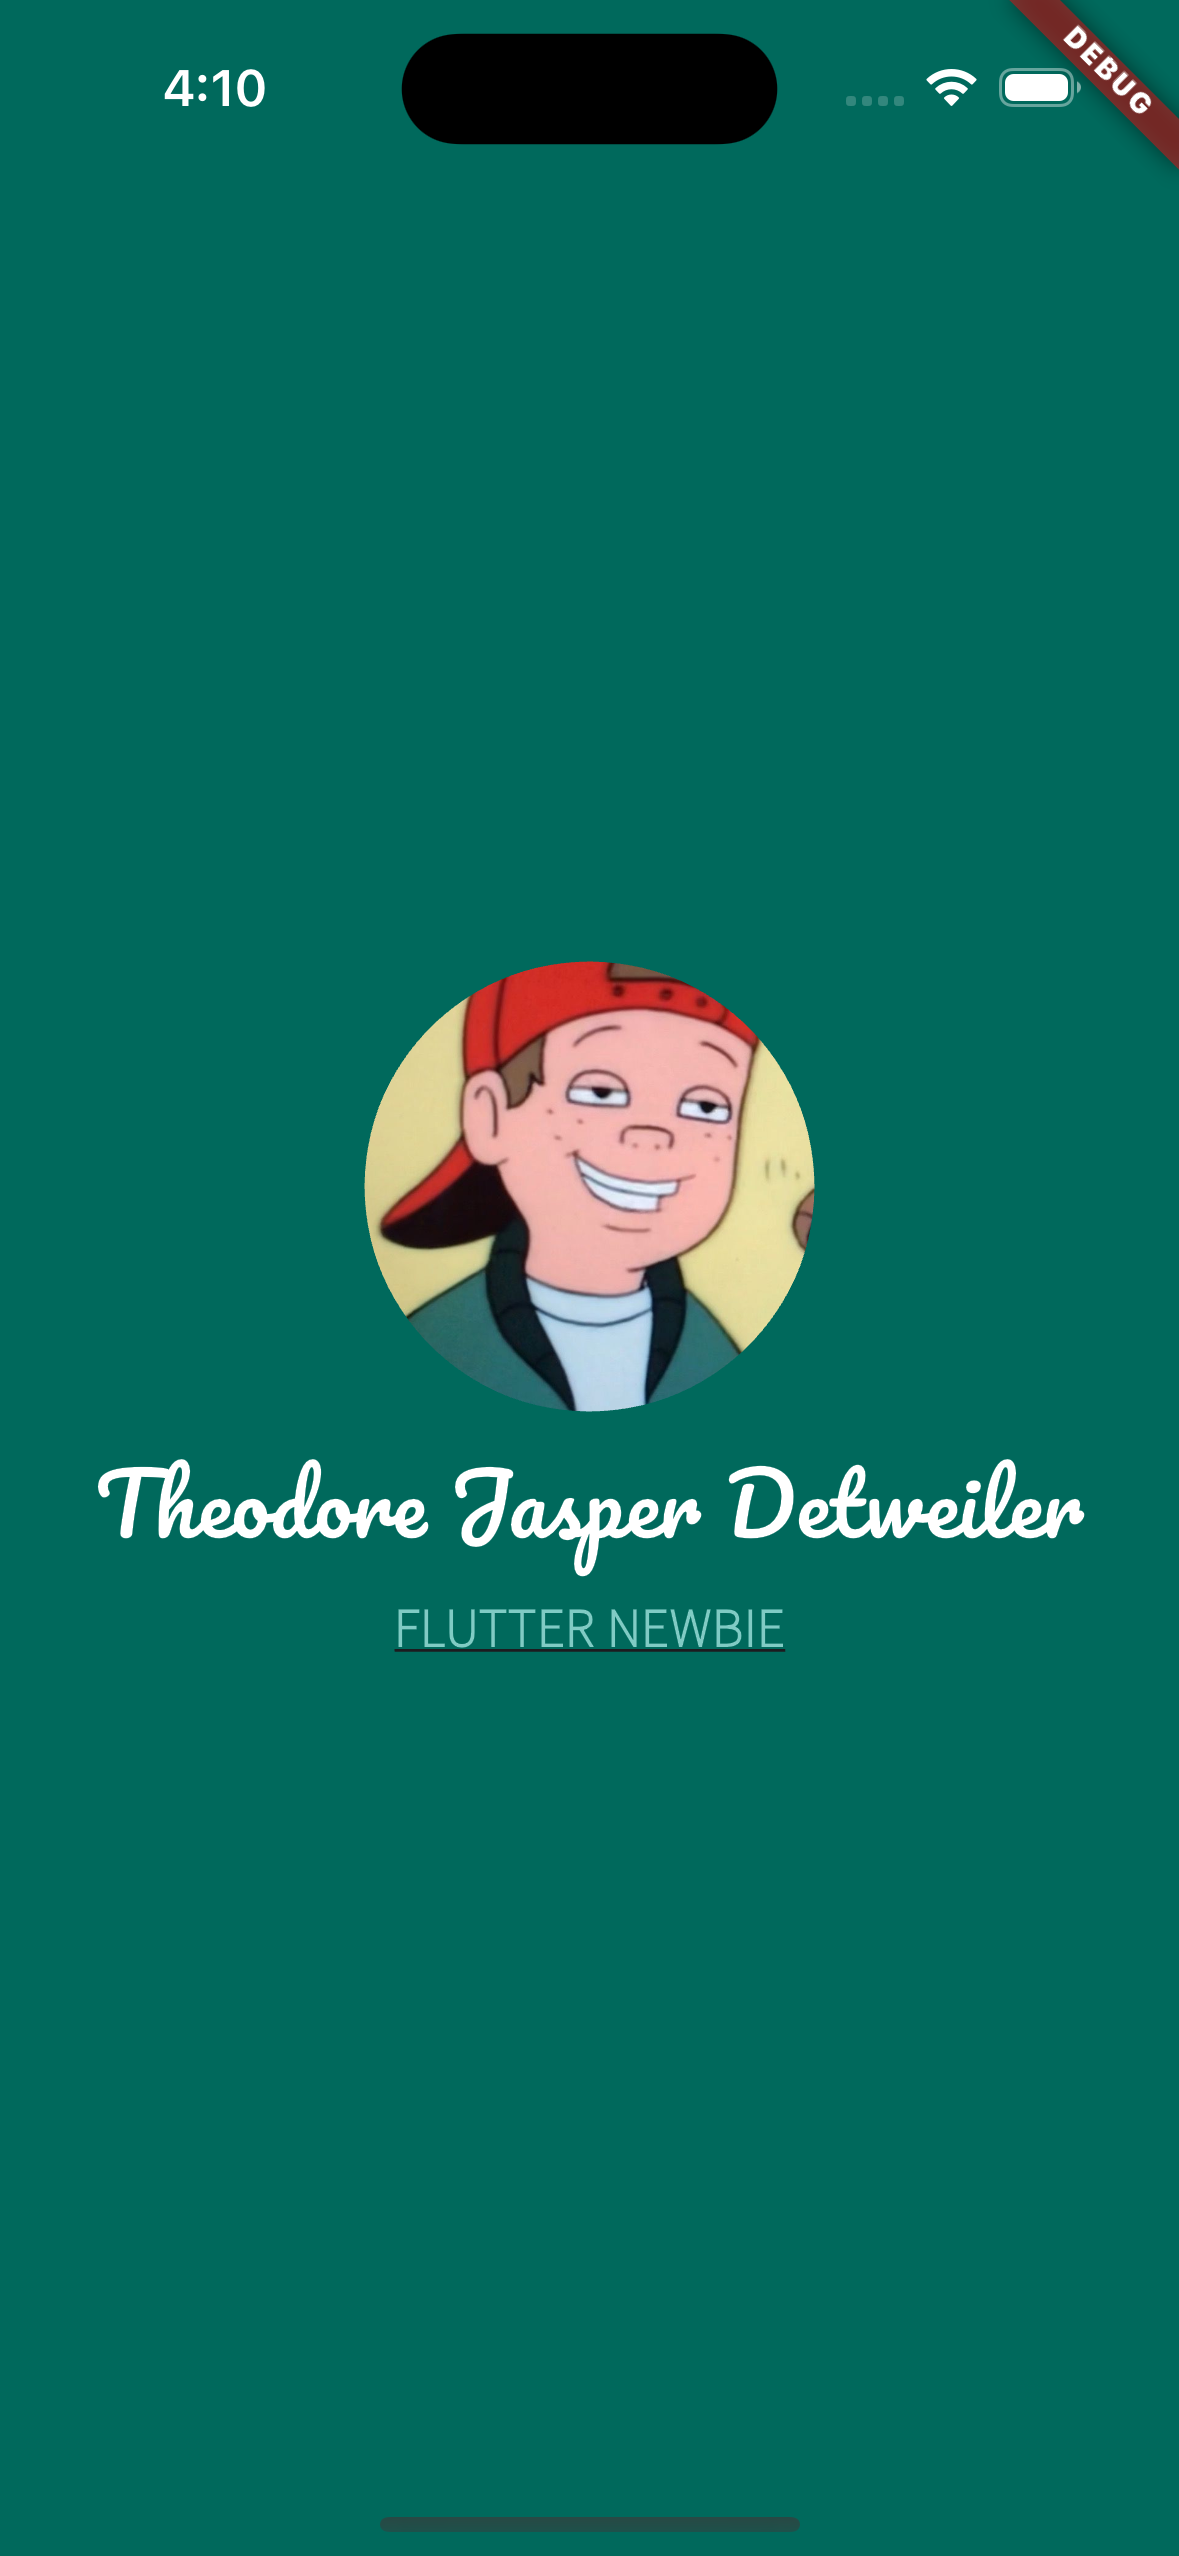
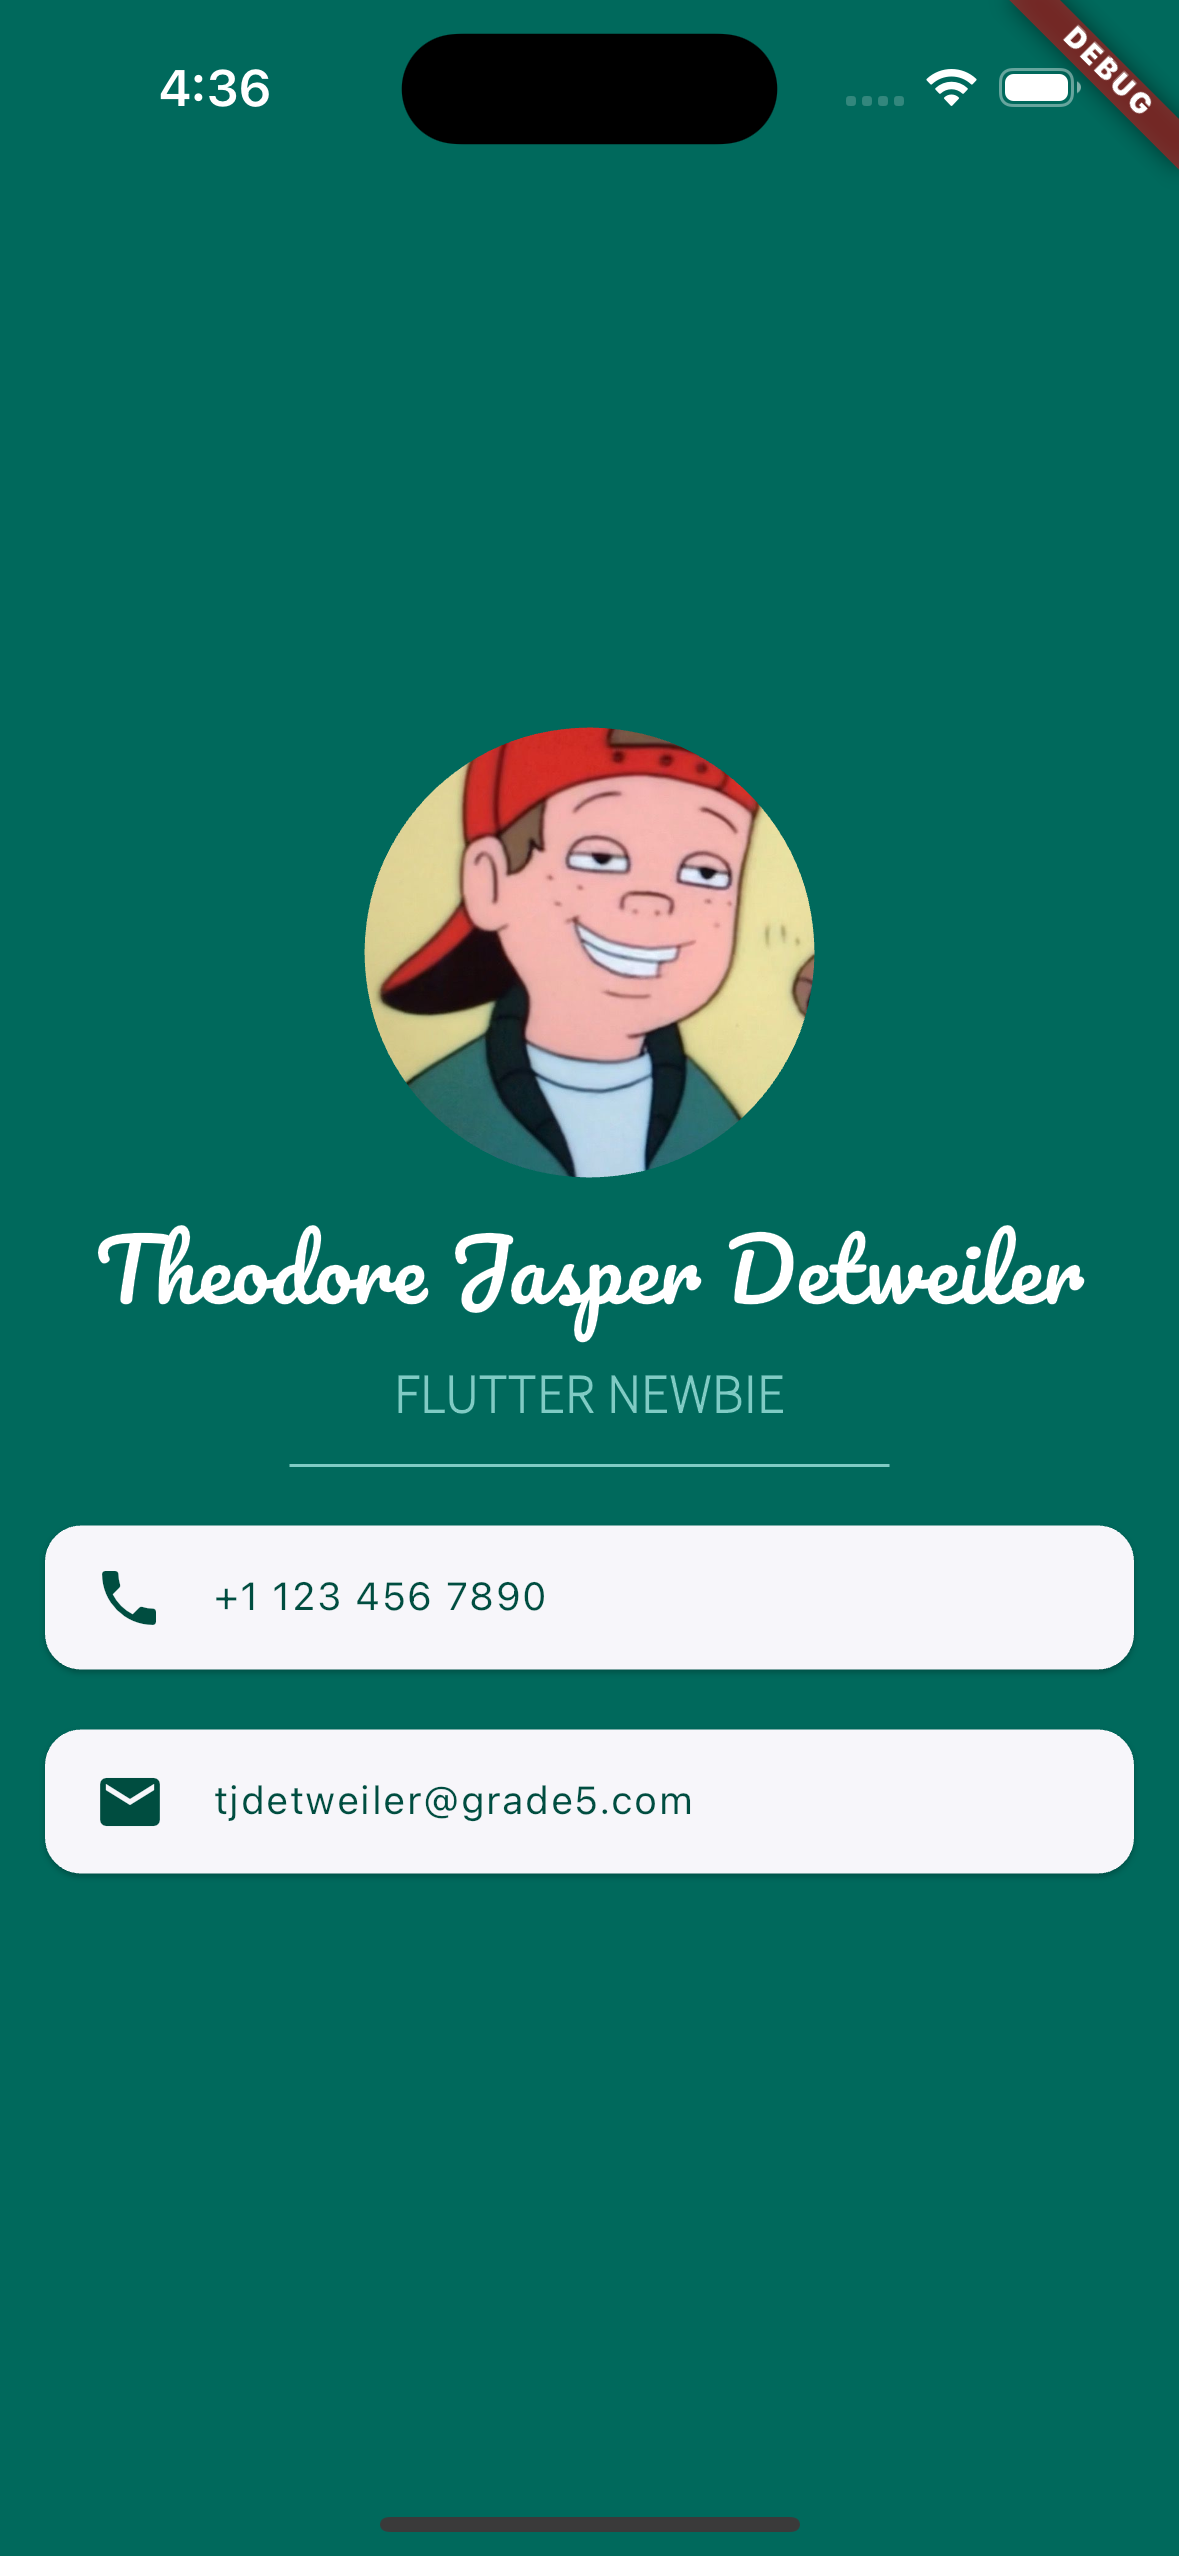
using card & list tile

Changed region(s): [[0.0305, 0.2782, 0.9771, 0.7418], [0.3359, 0.989, 0.6718, 1.0], [0.1527, 0.0309, 0.2137, 0.0618]]

diff --git a/lib/main.dart b/lib/main.dart
@@ -42,10 +42,58 @@ class MyApp extends StatelessWidget {
                     fontFamily: 'sourcesans',
                     fontSize: 18,
                     color: Colors.teal.shade200,
-                    fontWeight: FontWeight.bold,
-                    decoration: TextDecoration.underline
+                    fontWeight: FontWeight.bold
                   ),
-                )
+                ),
+                SizedBox(
+                  height: 20,
+                  width: 200,
+                  child: Divider(
+                    color: Colors.teal.shade200,
+                  ),
+                ),
+                Card(
+                  margin: EdgeInsets.symmetric(
+                      vertical: 10,
+                      horizontal: 15
+                  ),
+                  color: Colors.white,
+                  child: ListTile(
+                    dense: true,
+                    leading:
+                      Icon(
+                        Icons.phone,
+                        color: Colors.teal.shade900,
+                      ),
+                    title: Text(
+                        '+1 123 456 7890',
+                      style: TextStyle(
+                        color: Colors.teal.shade900,
+                      ),
+                    ),
+                  ),
+                ),
+                Card(
+                  margin: EdgeInsets.symmetric(
+                      vertical: 10,
+                      horizontal: 15
+                  ),
+                  color: Colors.white,
+                  child: ListTile(
+                    dense: true,
+                    leading:
+                    Icon(
+                      Icons.email,
+                      color: Colors.teal.shade900,
+                    ),
+                    title: Text(
+                      'tjdetweiler@grade5.com',
+                      style: TextStyle(
+                        color: Colors.teal.shade900,
+                      ),
+                    ),
+                  ),
+                ),
               ],
             ),
           ),
